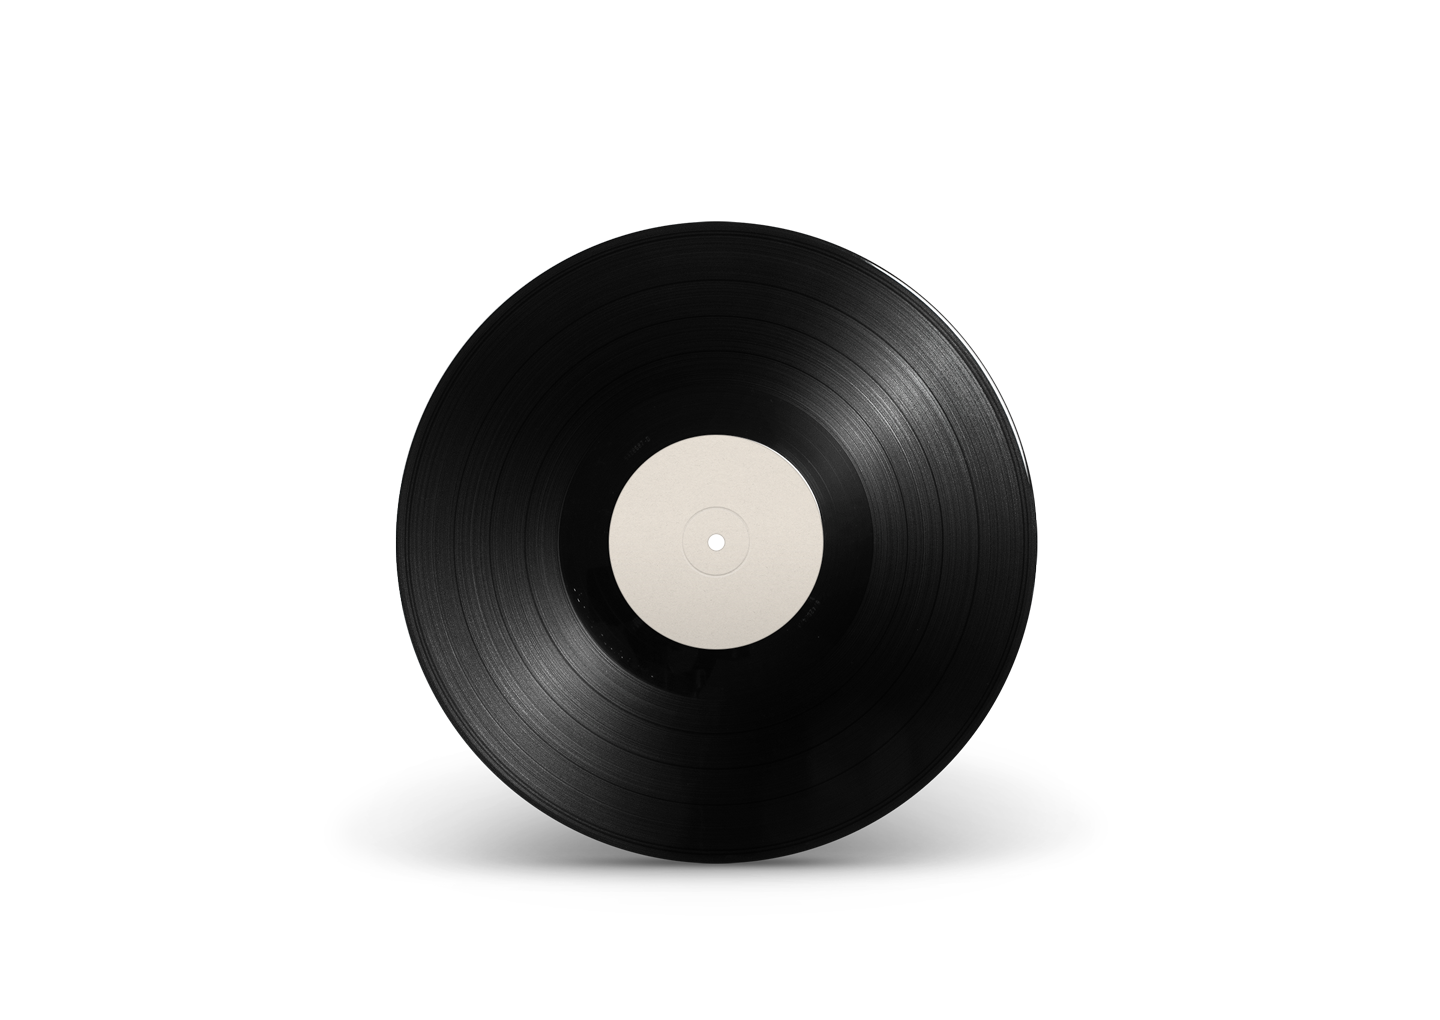
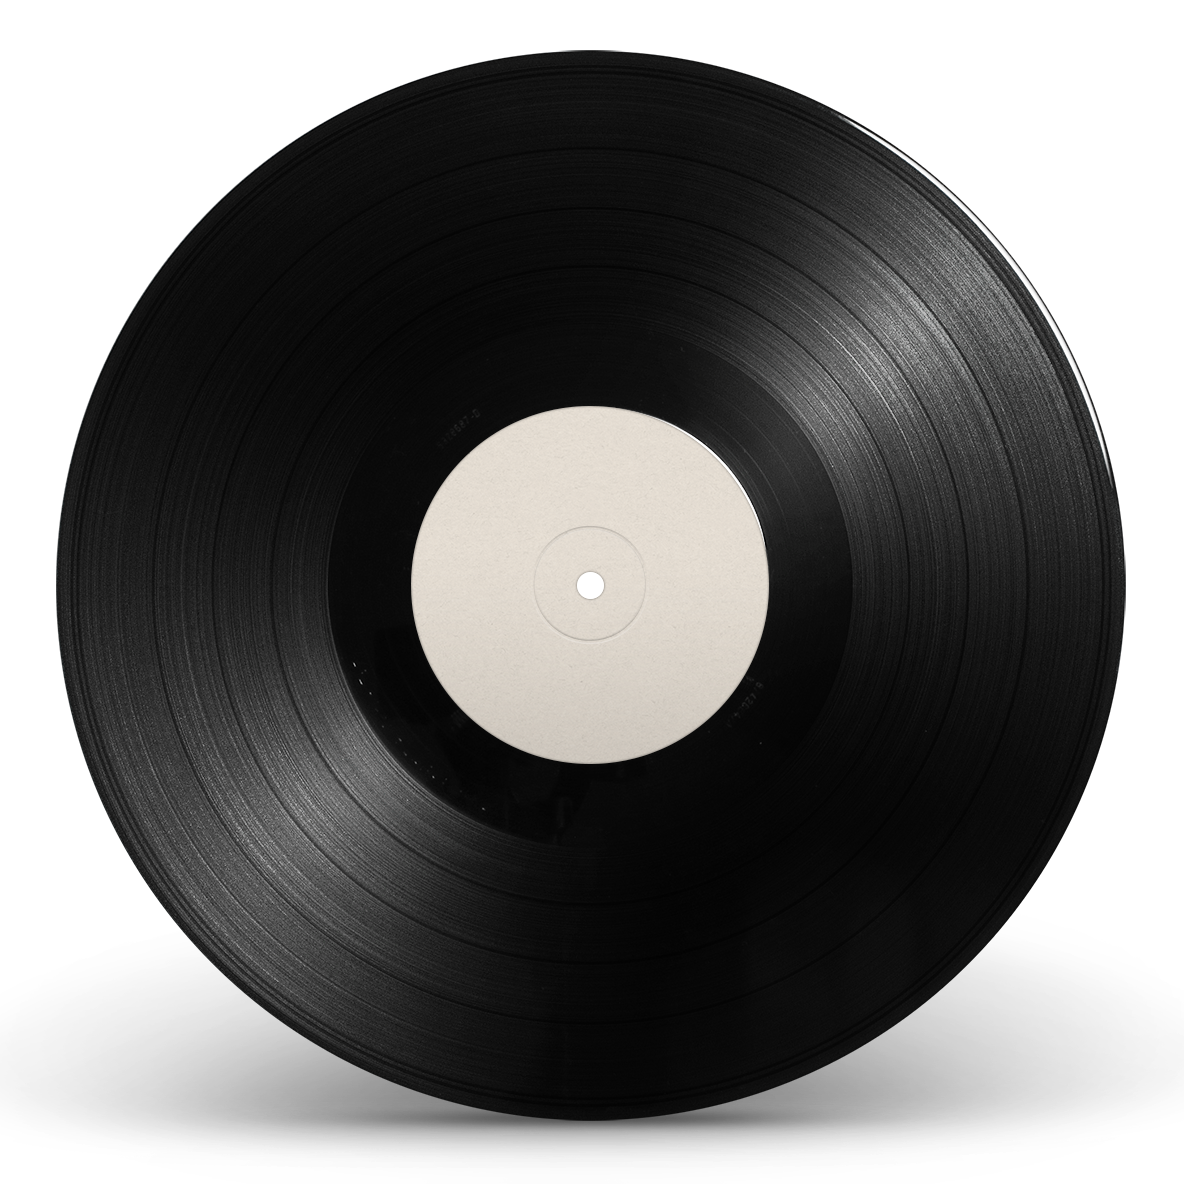
Added hero image to mint section

diff --git a/index.html b/index.html
@@ -15,7 +15,10 @@
 
     <nav></nav>
     <section class="red"></section>
-    <section class="mint"></section>
+    <section class="mint">
+        <div class="hero"><img src="./images/vinyl_case.png" loading="lazy" alt="vinyl record and case product example">
+        </div>
+    </section>
     <section class="yellow"></section>
     <section class="purple"></section>
     <footer>

diff --git a/style.css b/style.css
@@ -23,10 +23,25 @@ body {
     background: var(--red);
 }
 
+/* MINT SECTION */
 .mint {
     height: 812px;
     background: var(--mint);
+
 }
+
+.hero {
+    display: flex;
+    height: 100%;
+    justify-content: center;
+    align-items: center;
+}
+
+.hero>img {
+    width: 100vw;
+}
+
+/* END MINT SECTION */
 
 .yellow {
     height: 886px;
